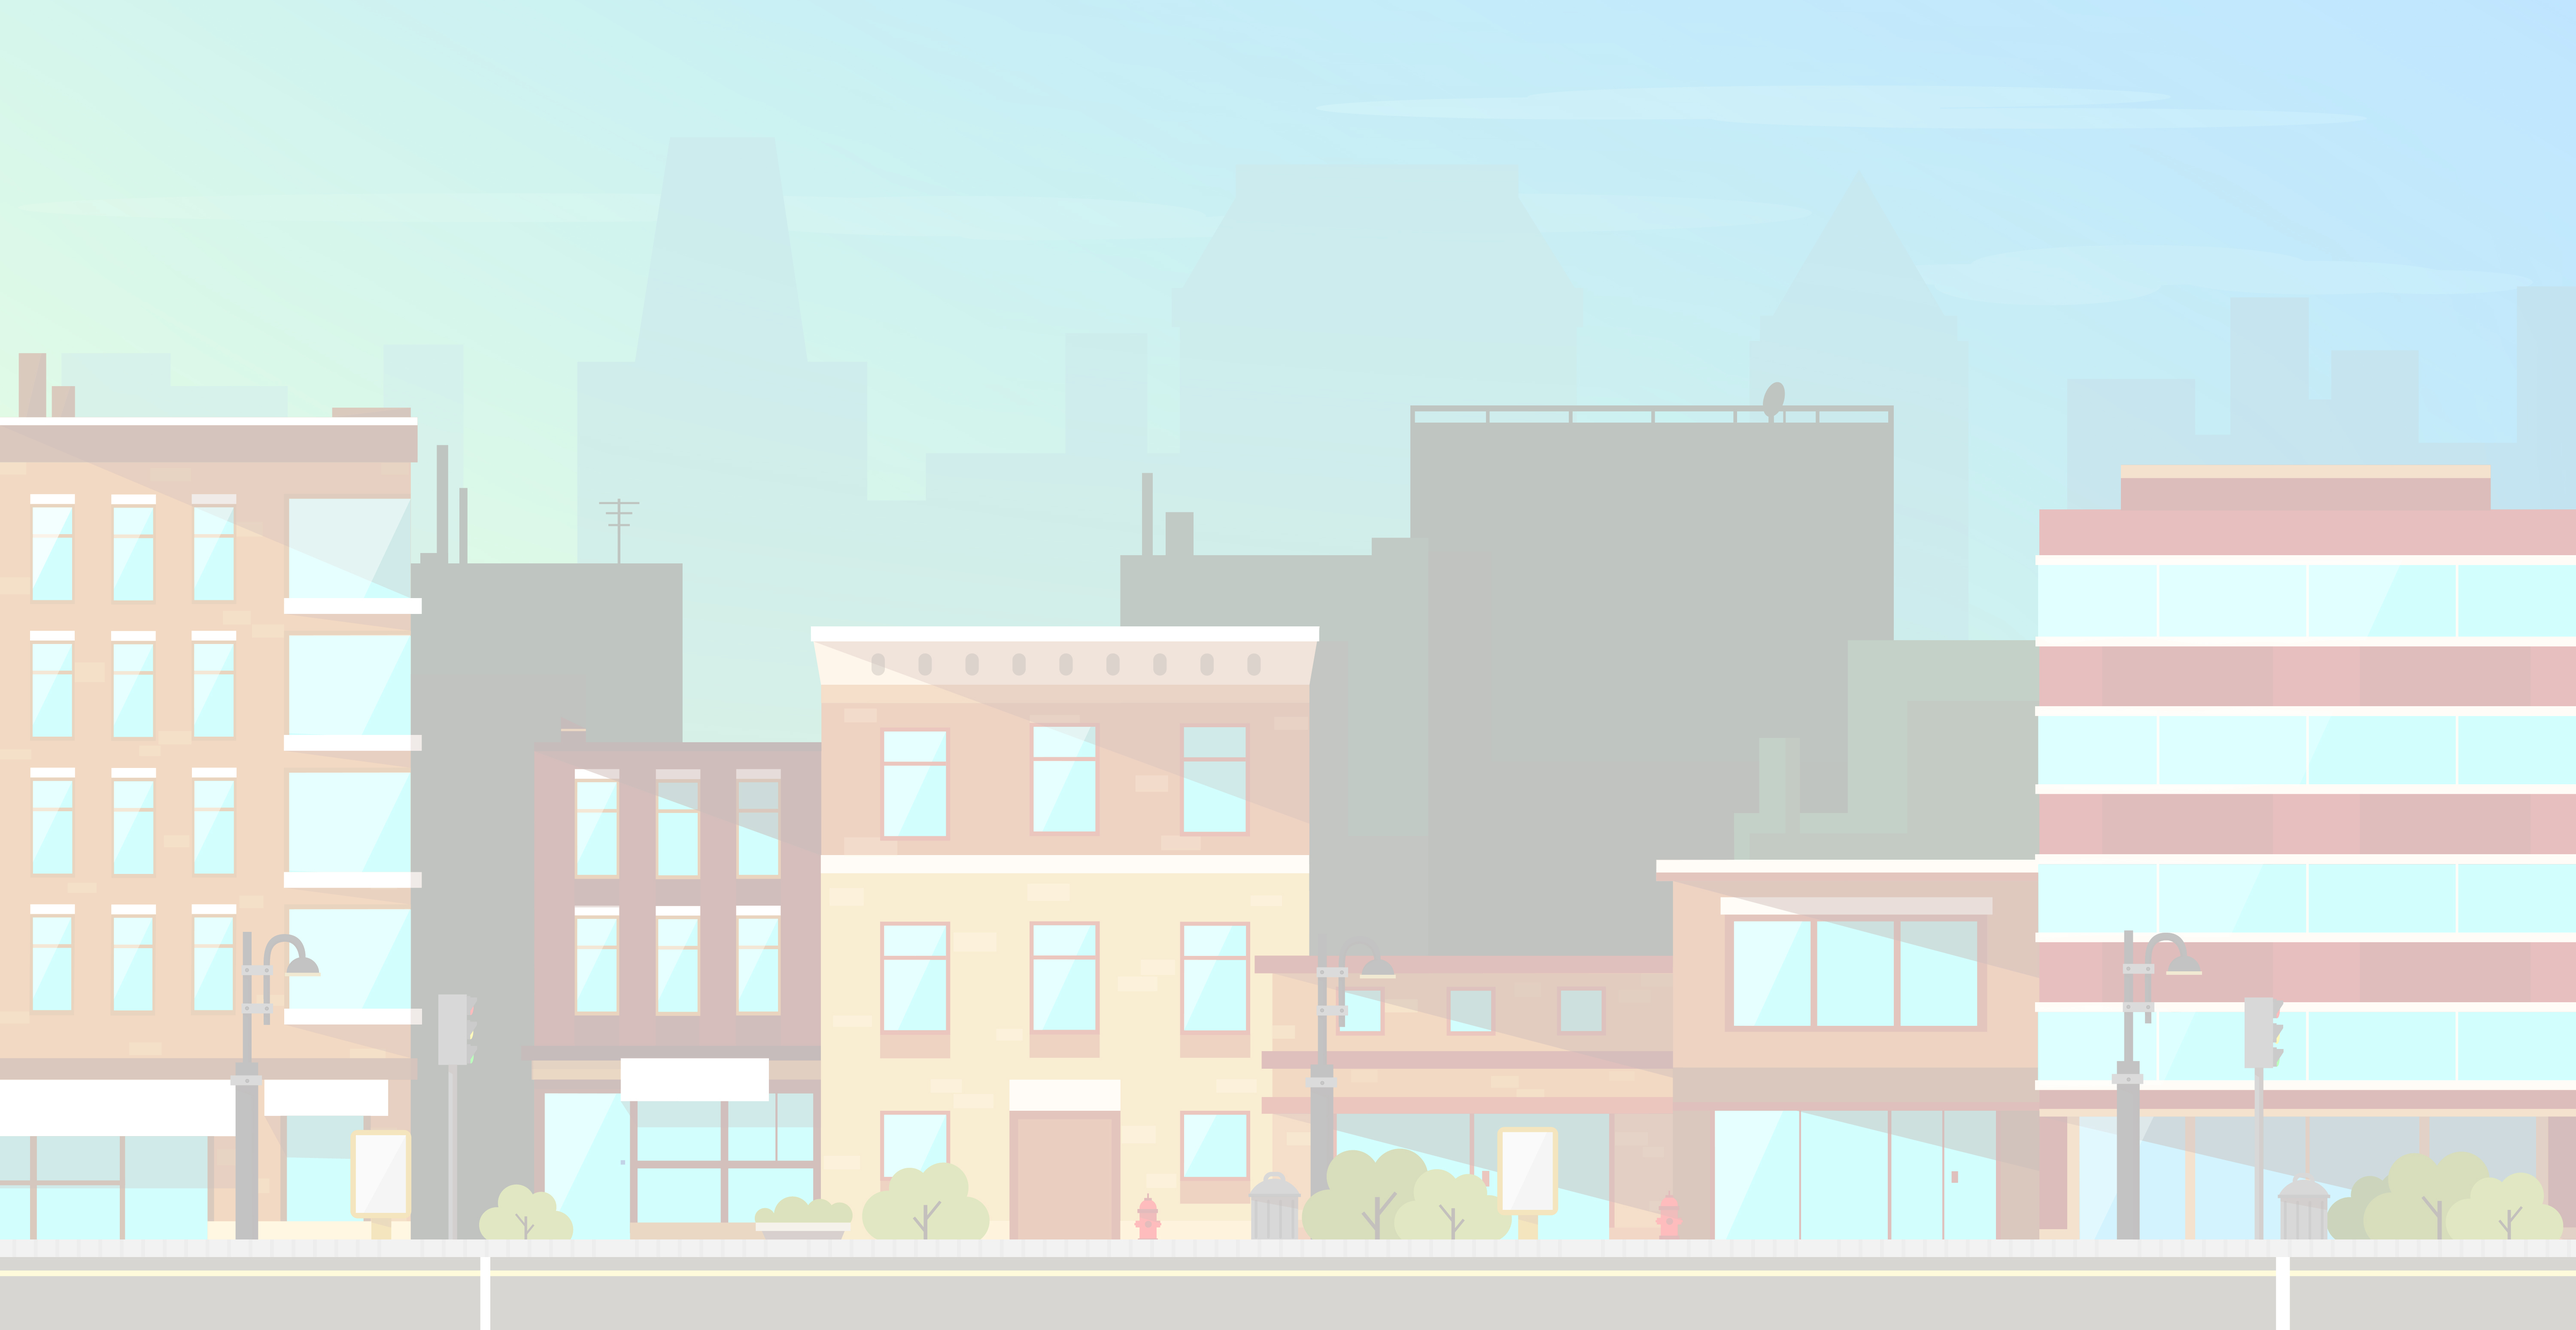
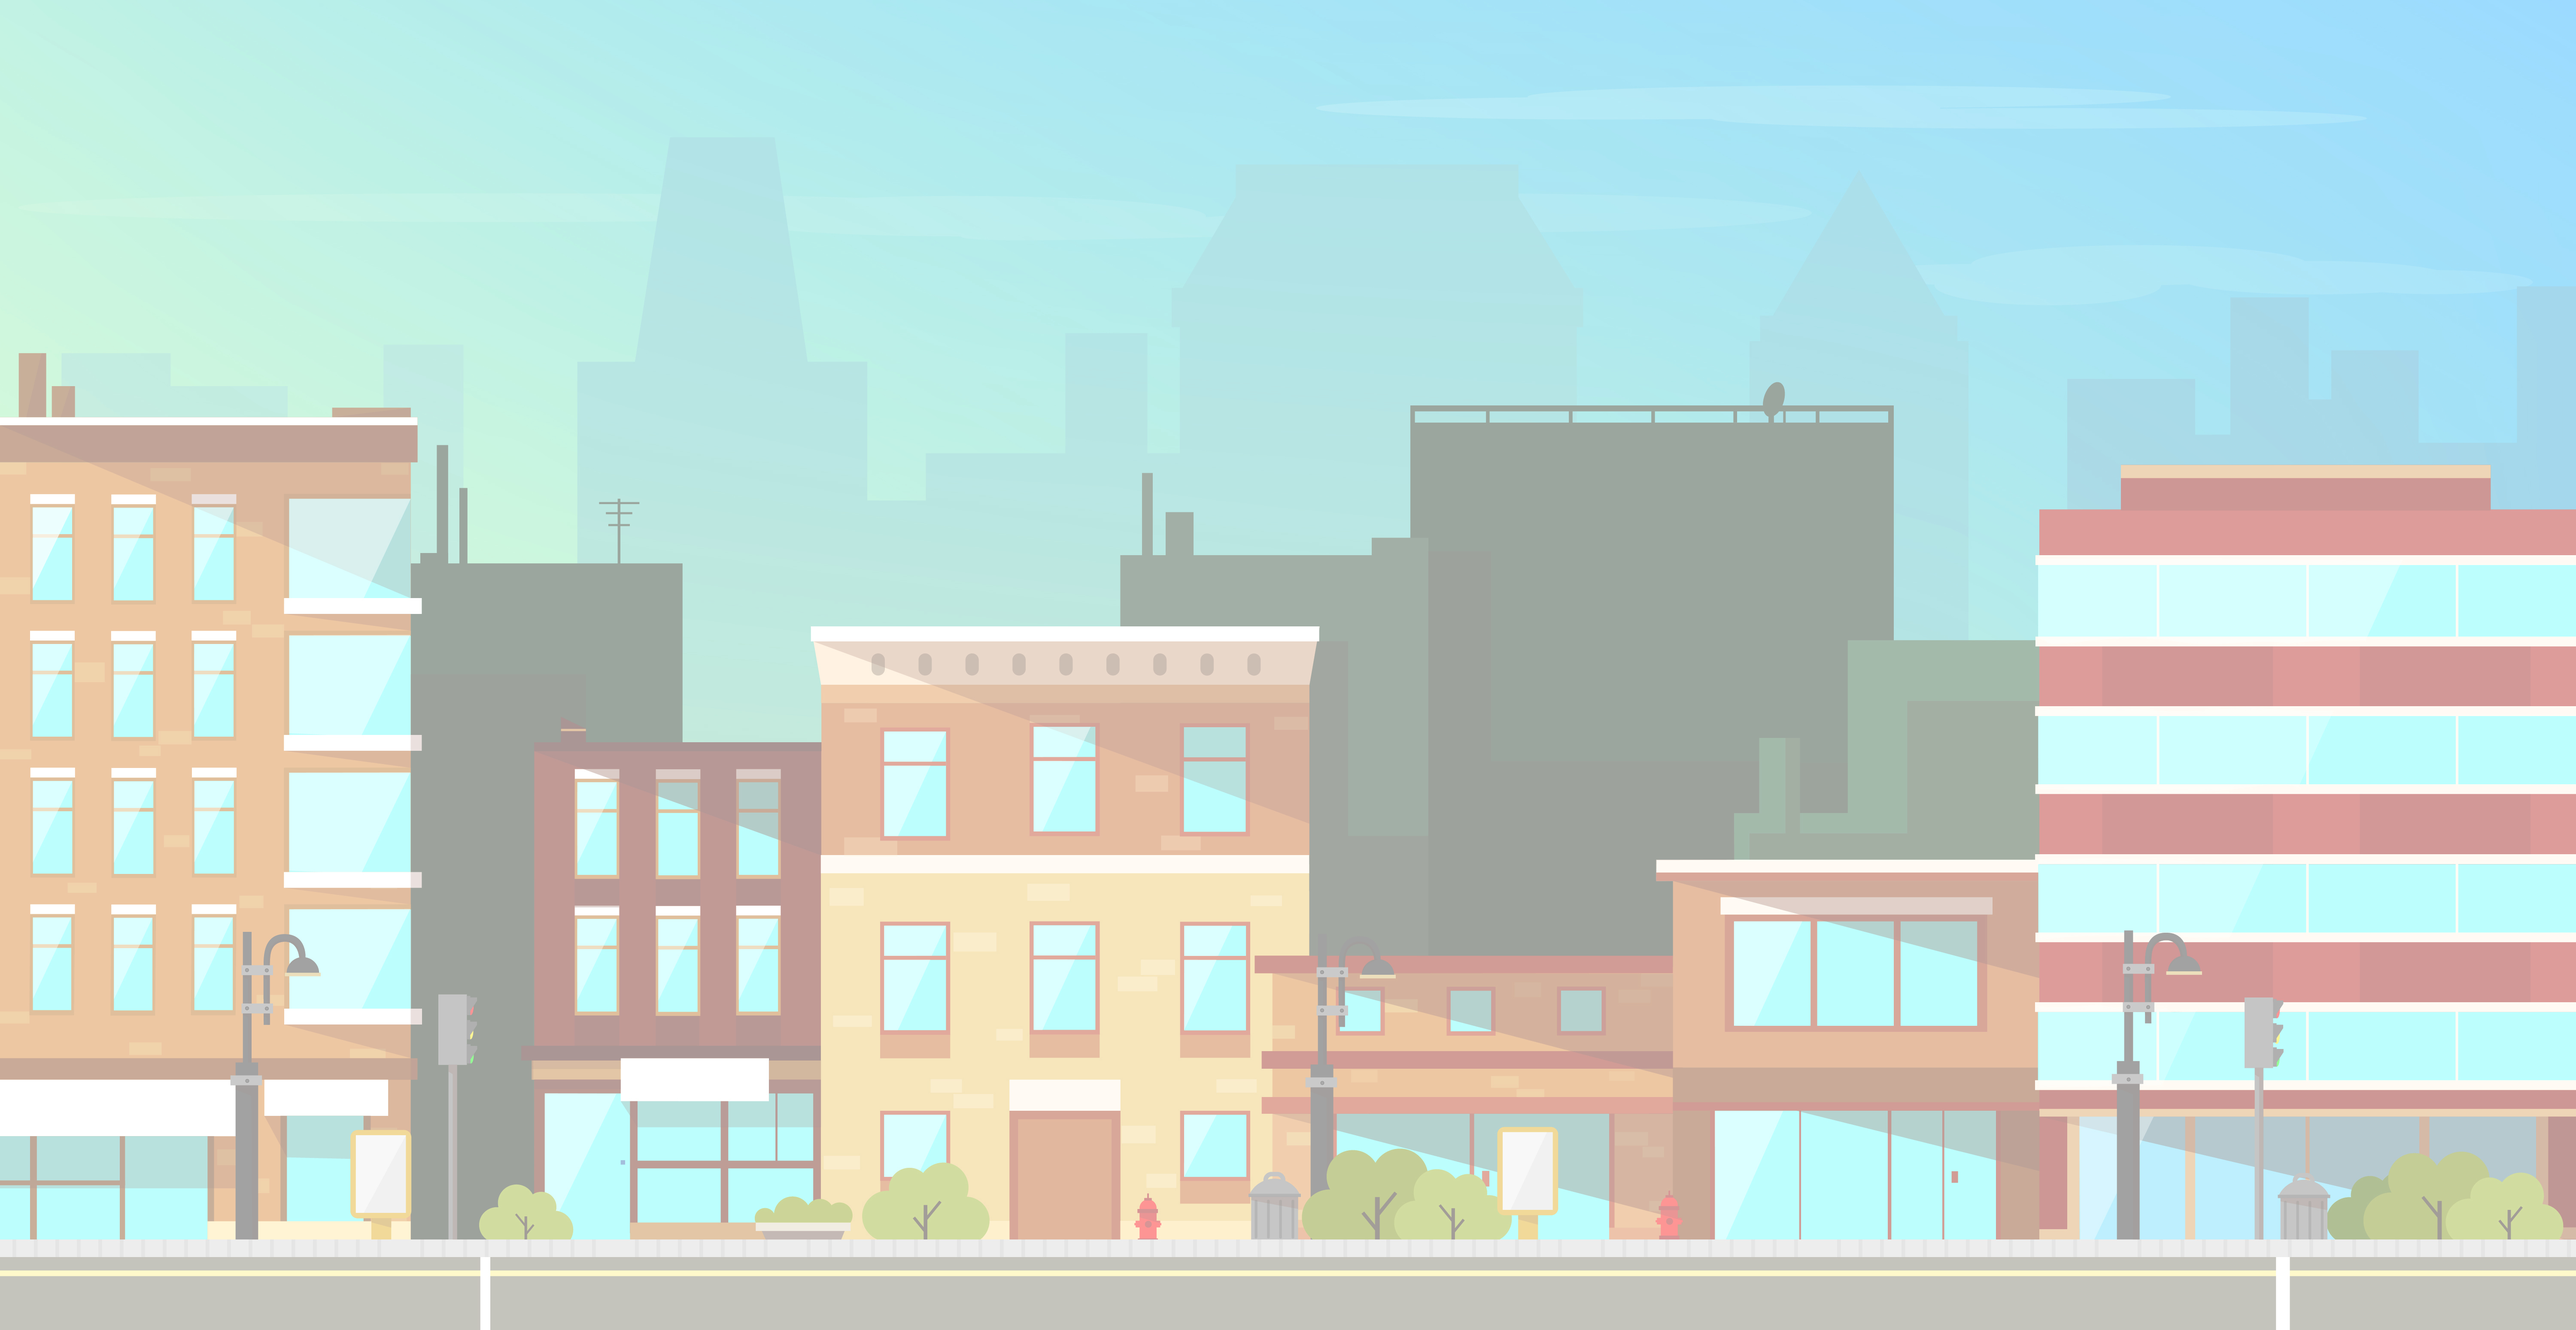
feat: add game selector (new/load) modal

diff --git a/magnate/src/pages/GameMode/GameMode.tsx b/magnate/src/pages/GameMode/GameMode.tsx
@@ -1,26 +1,33 @@
-import { Button } from "@/components/ui/button"
-import { PageHeader } from "@/components/layout/PageHeader"
+import { useState } from "react";
+import { Button } from "@/components/ui/button";
+import { PageHeader } from "@/components/layout/PageHeader";
+import { GameModeCard } from "./GameModeCard";
 
 export function GameMode() {
-  const imageUrl = "src/assets/bg_city_white.jpg";
+  const [selectedMode, setSelectedMode] = useState(null);
+  
+  const gridImageUrl = "src/assets/bg_city_white.jpg";
+  const newGameUrl = "src/assets/bg_city_white.jpg";
+  const loadGameUrl = "src/assets/bg_city_white.jpg";
+  
+  const lastSave = { date: "08/02/2026", time: "14:30" };
 
-  const buttonBaseClass = `
-    group relative w-full h-full p-0 overflow-hidden
-    rounded-2xl border-4 border-white
-    shadow-[0px_4px_0px_0px_rgba(0,0,0,0.25)]
-    hover:scale-105 transition-all duration-300 
-    bg-no-repeat flex flex-col items-stretch
+  const gridButtonEffect = `
+    transition-all duration-300 ease-out
+    hover:-translate-y-2 hover:shadow-[0px_12px_20px_rgba(0,0,0,0.15),0px_8px_0px_0px_rgba(0,0,0,0.1)]
+    hover:border-white hover:ring-4 hover:ring-white/20
+    active:translate-y-[4px] active:shadow-none active:ring-0
   `;
 
   const modes = [
-    { title: "Un jugador", pos: "0% 0%", iconUrl: "/icons/single_player.svg" },
-    { title: "Multijugador online", pos: "100% 0%", iconUrl: "/icons/online.svg" },
-    { title: "Multijugador con amigos", pos: "0% 100%", iconUrl: "/icons/multi_player.svg" },
-    { title: "Partida local con IA", pos: "100% 100%", iconUrl: "/icons/ia.svg" },
+    { title: "Un jugador", sub: "Individual", pos: "0% 0%", iconUrl: "/icons/single_player.svg" },
+    { title: "Multijugador", sub: "Online", pos: "100% 0%", iconUrl: "/icons/online.svg" },
+    { title: "Multijugador", sub: "Con amigos", pos: "0% 100%", iconUrl: "/icons/multi_player.svg" },
+    { title: "Partida Local", sub: "Con IA", pos: "100% 100%", iconUrl: "/icons/ia.svg" },
   ];
 
   return (
-    <div className="min-h-screen bg-cover bg-center bg-no-repeat">
+    <div className="relative min-h-screen bg-cover bg-center bg-no-repeat overflow-hidden select-none">
       <PageHeader title="Modo de juego" />
 
       <div
@@ -34,34 +41,57 @@ export function GameMode() {
         }}
       >
         {modes.map((mode, index) => (
-          <Button 
+          <Button
             key={index}
-            className={buttonBaseClass}
-            style={{ 
-                backgroundImage: `url(${imageUrl})`,
-                backgroundSize: '200% 200%',
-                backgroundPosition: mode.pos 
-            }}
+            onClick={() => setSelectedMode(mode)}
+            className={`
+              ${gridButtonEffect}
+              group relative w-full h-full p-0 overflow-hidden
+              rounded-[2rem] border-4 border-white
+              shadow-[0px_6px_0px_0px_rgba(0,0,0,0.15)]
+              bg-zinc-200
+            `}
           >
-            <div className="flex-grow" />
-
-            <img 
-              src={mode.iconUrl} 
-              alt="" 
-              className="absolute right-6 bottom-20 w-28 h-28 object-contain drop-shadow-lg transition-transform duration-300 group-hover:scale-110 z-10"
+            <div 
+              className="absolute inset-0 bg-no-repeat transition-transform duration-700 group-hover:scale-110 pointer-events-none"
               style={{
-                filter: "brightness(0) invert(0.5) opacity(0.6)"
+                backgroundImage: `url(${gridImageUrl})`,
+                backgroundSize: "200% 200%",
+                backgroundPosition: mode.pos,
               }}
             />
+            <div className="absolute inset-0 bg-gradient-to-t from-black/90 via-black/40 to-transparent pointer-events-none" />
+            
+            <img
+              src={mode.iconUrl}
+              alt=""
+              className="absolute right-10 top-10 w-20 h-20 object-contain transition-all duration-500 z-10 opacity-50 group-hover:opacity-100 group-hover:scale-110 pointer-events-none"
+              style={{ filter: "brightness(0) invert(1)" }}
+            />
 
-            <div className="w-full bg-black/80 py-5 text-center text-white backdrop-blur-md border-t border-white/10 z-20">
-              <span className="text-2xl font-bold uppercase tracking-wider">
+            <div className="absolute inset-0 z-20 flex flex-col items-center justify-end pb-12 text-white pointer-events-none">
+              <span className="text-6xl font-black uppercase italic tracking-tighter leading-none">
                 {mode.title}
+              </span>
+              <span className="text-xl font-bold uppercase opacity-60 tracking-[0.3em] mt-2">
+                {mode.sub}
               </span>
             </div>
           </Button>
         ))}
       </div>
+
+      {selectedMode && (
+        <GameModeCard 
+          title={selectedMode.title}
+          lastSave={lastSave}
+          newGameImage={newGameUrl}
+          loadGameImage={loadGameUrl}
+          onBack={() => setSelectedMode(null)}
+          onNewGame={() => console.log("New Game Started")}
+          onLoadGame={() => console.log("Game Loaded")}
+        />
+      )}
     </div>
-  )
+  );
 }

diff --git a/magnate/src/pages/GameMode/GameModeCard.tsx b/magnate/src/pages/GameMode/GameModeCard.tsx
@@ -1,0 +1,97 @@
+import { Button } from "@/components/ui/button";
+
+export function GameModeCard({ 
+  title, 
+  lastSave, 
+  newGameImage, 
+  loadGameImage, 
+  onBack, 
+  onNewGame, 
+  onLoadGame 
+}) {
+  const cardButtonEffect = `
+    transition-all duration-300 ease-out
+    hover:-translate-y-2 hover:shadow-[0px_12px_20px_rgba(0,0,0,0.15),0px_8px_0px_0px_rgba(0,0,0,0.1)]
+    hover:border-white hover:ring-4 hover:ring-white/20
+    active:translate-y-[4px] active:shadow-none active:ring-0
+  `;
+
+  return (
+    <div 
+      className="fixed inset-0 z-50 flex items-center justify-center bg-black/70 backdrop-blur-md animate-in fade-in duration-500 select-none"
+      onClick={onBack}
+    >
+      <div 
+        className="w-[90%] max-w-5xl rounded-[3rem] border-4 border-white shadow-[0_25px_60_rgba(0,0,0,0.4)] animate-in zoom-in-95 duration-300 overflow-hidden"
+        style={{
+          backgroundImage: `url('/pattern.svg'), linear-gradient(rgba(255, 255, 255, 0.98), rgba(255, 255, 255, 0.98))`,
+          backgroundRepeat: "repeat",
+          backgroundBlendMode: "overlay",
+        }}
+        onClick={(e) => e.stopPropagation()}
+      >
+        <div className="relative w-full h-32 border-b-4 border-white bg-[var(--color-primary)] flex items-center justify-center overflow-hidden">
+          <svg className="absolute inset-0 w-full h-full opacity-15 pointer-events-none" xmlns="http://www.w3.org/2000/svg">
+            <defs>
+              <pattern id="modal-header-pattern" width="60" height="40" patternUnits="userSpaceOnUse" patternTransform="rotate(-25)">
+                <image href="/icons/money.svg" width="50" height="50" preserveAspectRatio="none" />
+              </pattern>
+            </defs>
+            <rect width="100%" height="100%" fill="url(#modal-header-pattern)" />
+          </svg>
+          <h2 className="relative z-10 text-6xl font-extrabold tracking-tight uppercase italic pointer-events-none">
+            {title}
+          </h2>
+        </div>
+
+        <div className="p-12">
+          <div className="grid grid-cols-2 gap-10 h-80">
+            <Button 
+              onClick={onNewGame}
+              className={`${cardButtonEffect} group relative h-full rounded-[2rem] border-4 border-white overflow-hidden p-0 flex flex-col items-center justify-center`}
+            >
+              <div 
+                className="absolute inset-0 bg-cover bg-center transition-transform duration-500 group-hover:scale-110" 
+                style={{ backgroundImage: `url(${newGameImage})` }} 
+              />
+              <div className="absolute inset-0 bg-gradient-to-t from-black/90 via-black/40 to-transparent" />
+              <div className="relative z-10 flex flex-col items-center text-white">
+                <span className="text-6xl font-black uppercase italic tracking-tighter leading-none">Nueva</span>
+                <span className="text-xl font-bold uppercase opacity-60 tracking-[0.3em] mt-2">Partida</span>
+              </div>
+            </Button>
+
+            <Button 
+              onClick={onLoadGame}
+              className={`${cardButtonEffect} group relative h-full rounded-[2rem] border-4 border-white overflow-hidden p-0 flex flex-col items-center justify-center`}
+            >
+              <div 
+                className="absolute inset-0 bg-cover bg-center grayscale-[0.5] brightness-[0.4] transition-transform duration-500 group-hover:scale-110" 
+                style={{ backgroundImage: `url(${loadGameImage})` }} 
+              />
+              <div className="absolute inset-0 bg-gradient-to-t from-black/95 via-black/60 to-transparent" />
+              <div className="relative z-10 flex flex-col items-center text-white">
+                <span className="text-6xl font-black uppercase italic tracking-tighter leading-none">Cargar</span>
+                <span className="text-xl font-bold uppercase opacity-60 tracking-[0.3em] mt-2">Progreso</span>
+                
+                <div className="mt-6 px-6 py-2 bg-white/10 backdrop-blur-md rounded-full border border-white/20">
+                  <p className="text-[11px] uppercase tracking-widest opacity-40 font-black mb-1 text-center">Última partida</p>
+                  <p className="text-sm font-mono tracking-tighter italic">{lastSave.date} — {lastSave.time}</p>
+                </div>
+              </div>
+            </Button>
+          </div>
+
+          <div className="mt-12 text-center">
+            <button 
+              onClick={onBack} 
+              className="text-zinc-400 hover:text-zinc-900 font-black uppercase text-xs tracking-[0.5em] transition-all duration-300 hover:scale-110 transform-gpu"
+            >
+              ← VOLVER AL MENÚ
+            </button>
+          </div>
+        </div>
+      </div>
+    </div>
+  );
+}
